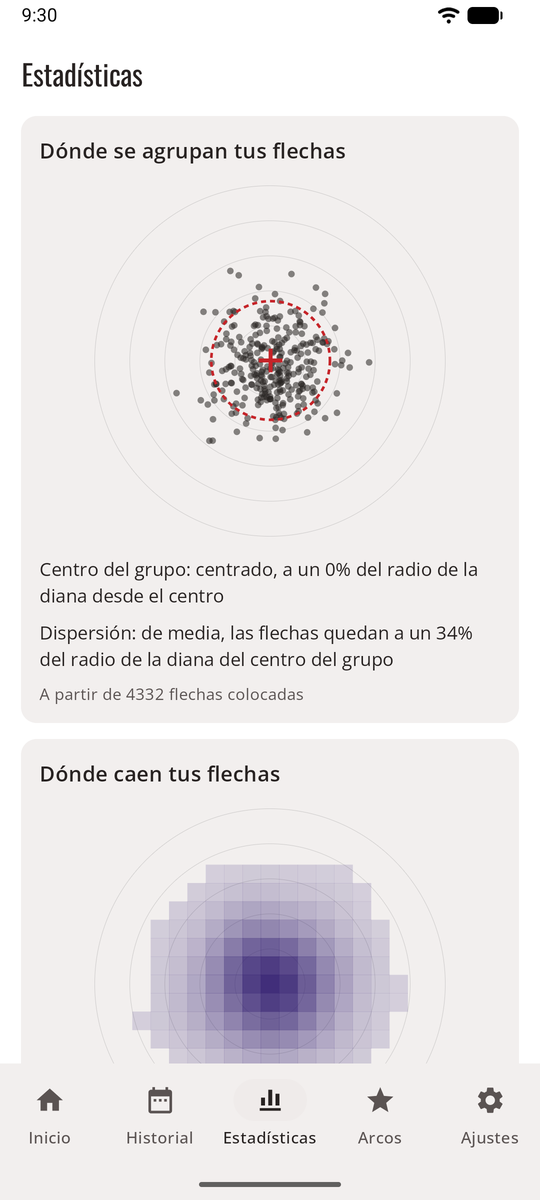
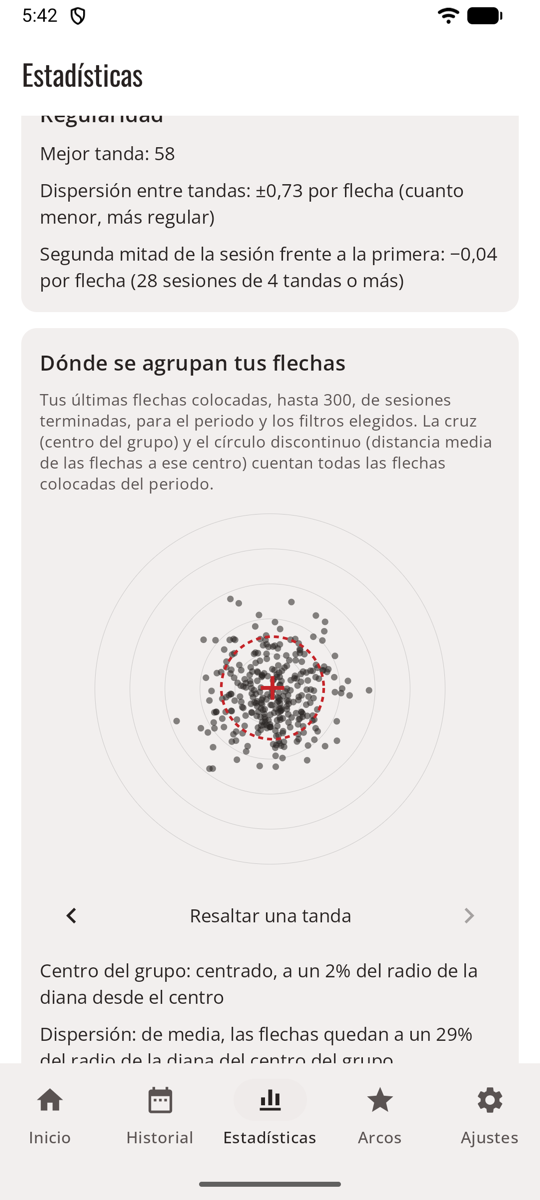
Update the sagitt·AI·re site

diff --git a/sagittaire/docs/stats.es.md b/sagittaire/docs/stats.es.md
@@ -91,12 +91,21 @@ Cuántas flechas cayeron en cada zona, desde la X (o el 11 en un animal 3D) hast
 </figure>
 </div>
 
-Cada flecha colocada sobre una sola diana, cada una dibujada en su propio spot, con:
+Tus **últimas 300 flechas colocadas** de sesiones terminadas (para el periodo y los filtros elegidos) sobre una sola diana, cada una dibujada en su propio spot, con:
 
 - el **centro del grupo** (una cruz): alto, bajo, a la izquierda o a la derecha, como proporción del radio de la diana. Práctico para las marcas de visor;
-- la **dispersión** (un círculo discontinuo): a qué distancia del centro del grupo quedan las flechas de media.
+- la **dispersión** (un círculo discontinuo): a qué distancia del centro del grupo quedan las flechas de media;
+- **una tanda a la vez**: bajo el gráfico, ◀ muestra tu última tanda en rojo y las demás en gris, ◀ ▶ pasan de una tanda a otra, y tocar el nombre de la tanda vuelve a mostrar todas las flechas.
+
+El centro y la dispersión cuentan todas las flechas colocadas del periodo; los puntos muestran las 300 últimas.
 
 Las flechas que colocó la IA siempre cuentan. Las flechas colocadas a mano cuentan una vez que has [marcado la diana](scoring-manual.md#mark-the-target).
+
+## Centro de cada tanda { #centre-of-each-end }
+
+![Centro de cada tanda: un punto por tanda sobre la diana, una cruz en el centro medio y un círculo discontinuo para el desplazamiento de las tandas.](images/screenshots/es/stats-centres.png){ .shot }
+
+Un punto por tanda confirmada: el centro de sus flechas colocadas. La **cruz** marca el centro medio; el **círculo discontinuo** muestra cuánto se desplazan tus tandas de una a otra (puntería, ajuste del visor). Debajo: dónde está el centro medio, el desplazamiento y en cuántas tandas se basa. Hacen falta 3 tandas con flechas colocadas en la foto. Una tanda corregida cambia de sitio en cuanto la vuelves a confirmar.
 
 ## Dónde caen tus flechas { #where-your-arrows-land }
 

diff --git a/sagittaire/docs/stats.de.md b/sagittaire/docs/stats.de.md
@@ -91,12 +91,21 @@ Wie viele Pfeile in jedem Ring gelandet sind, von X (oder 11 bei einem 3D-Tier) 
 </figure>
 </div>
 
-Jeder platzierte Pfeil auf einer Scheibe, jeder auf seinem eigenen Spot gezeichnet, mit:
+Deine **letzten 300 platzierten Pfeile** aus beendeten Einheiten (für den gewählten Zeitraum und die Filter) auf einer Scheibe, jeder auf seinem eigenen Spot gezeichnet, mit:
 
 - der **Gruppenmitte** (ein Kreuz): hoch, tief, links oder rechts, als Anteil am Radius der Auflage. Praktisch für Visiermarken;
-- der **Streuung** (ein gestrichelter Kreis): wie weit die Pfeile im Schnitt von der Gruppenmitte entfernt sitzen.
+- der **Streuung** (ein gestrichelter Kreis): wie weit die Pfeile im Schnitt von der Gruppenmitte entfernt sitzen;
+- **einer Passe nach der anderen**: Unter dem Diagramm zeigt ◀ deine letzte Passe in Rot und die anderen in Grau, ◀ ▶ blättern durch die Passen, und ein Tippen auf den Namen der Passe zeigt wieder alle Pfeile.
+
+Mitte und Streuung zählen alle platzierten Pfeile des Zeitraums; die Punkte zeigen die letzten 300.
 
 Pfeile, die die KI platziert hat, zählen immer. Von Hand platzierte Pfeile zählen, sobald du [die Scheibe markiert](scoring-manual.md#mark-the-target) hast.
+
+## Mitte jeder Passe { #centre-of-each-end }
+
+![Mitte jeder Passe: ein Punkt pro Passe auf der Scheibe, ein Kreuz in der mittleren Mitte und ein gestrichelter Kreis für das Wandern der Passen.](images/screenshots/de/stats-centres.png){ .shot }
+
+Ein Punkt pro bestätigter Passe: die Mitte ihrer platzierten Pfeile. Das **Kreuz** ist die mittlere Mitte; der **gestrichelte Kreis** zeigt, wie stark deine Passen von einer zur nächsten wandern (Zielen, Visiereinstellung). Darunter: wo die mittlere Mitte liegt, das Wandern und auf wie vielen Passen es beruht. Es braucht 3 Passen mit auf dem Foto platzierten Pfeilen. Eine korrigierte Passe wandert, sobald du sie erneut bestätigst.
 
 ## Wo deine Pfeile landen { #where-your-arrows-land }
 

diff --git a/sagittaire/docs/stats.md b/sagittaire/docs/stats.md
@@ -91,12 +91,21 @@ How many arrows landed in each ring, from X (or 11 on a 3D animal) down to a mis
 </figure>
 </div>
 
-Every placed arrow on one target, each drawn on its own spot, with:
+Your **latest 300 placed arrows** from finished sessions (for the period and filters chosen) on one target, each drawn on its own spot, with:
 
 - the **group centre** (a cross): high, low, left or right, as a share of the face's radius. Handy for sight marks;
-- the **spread** (a dashed circle): how far arrows sit from the group centre on average.
+- the **spread** (a dashed circle): how far arrows sit from the group centre on average;
+- **one end at a time**: under the chart, ◀ shows your latest end in red and the others in grey, ◀ ▶ step through the ends, and tapping the end's name shows every arrow again.
+
+The centre and spread count every placed arrow in the period; the dots show the latest 300.
 
 Arrows the AI placed always count. Arrows placed by hand count once you've [marked the target](scoring-manual.md#mark-the-target).
+
+## Centre of each end
+
+![Centre of each end: one dot per end on the target, a cross at the average centre and a dashed circle for how much ends drift.](images/screenshots/stats-centres.png){ .shot }
+
+One dot per confirmed end: the centre of its placed arrows. The **cross** is the average centre; the **dashed circle** shows how far your ends drift from one to the next (aim, sight setting). Below it: where the average centre sits, the drift, and how many ends it is based on. It needs 3 ends with arrows placed on the photo. A corrected end moves as soon as you confirm it again.
 
 ## Where your arrows land
 
